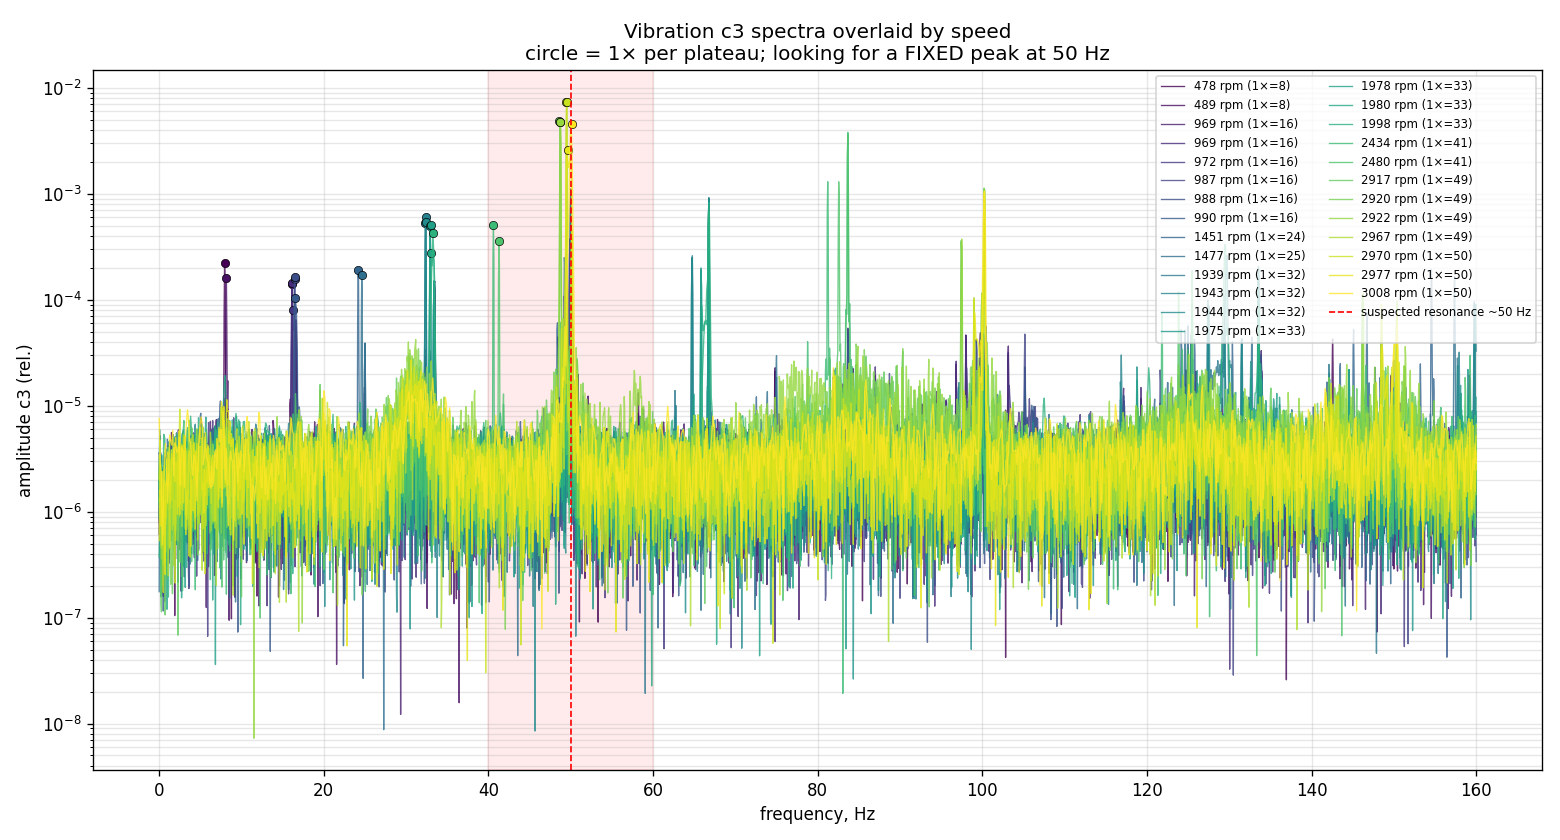
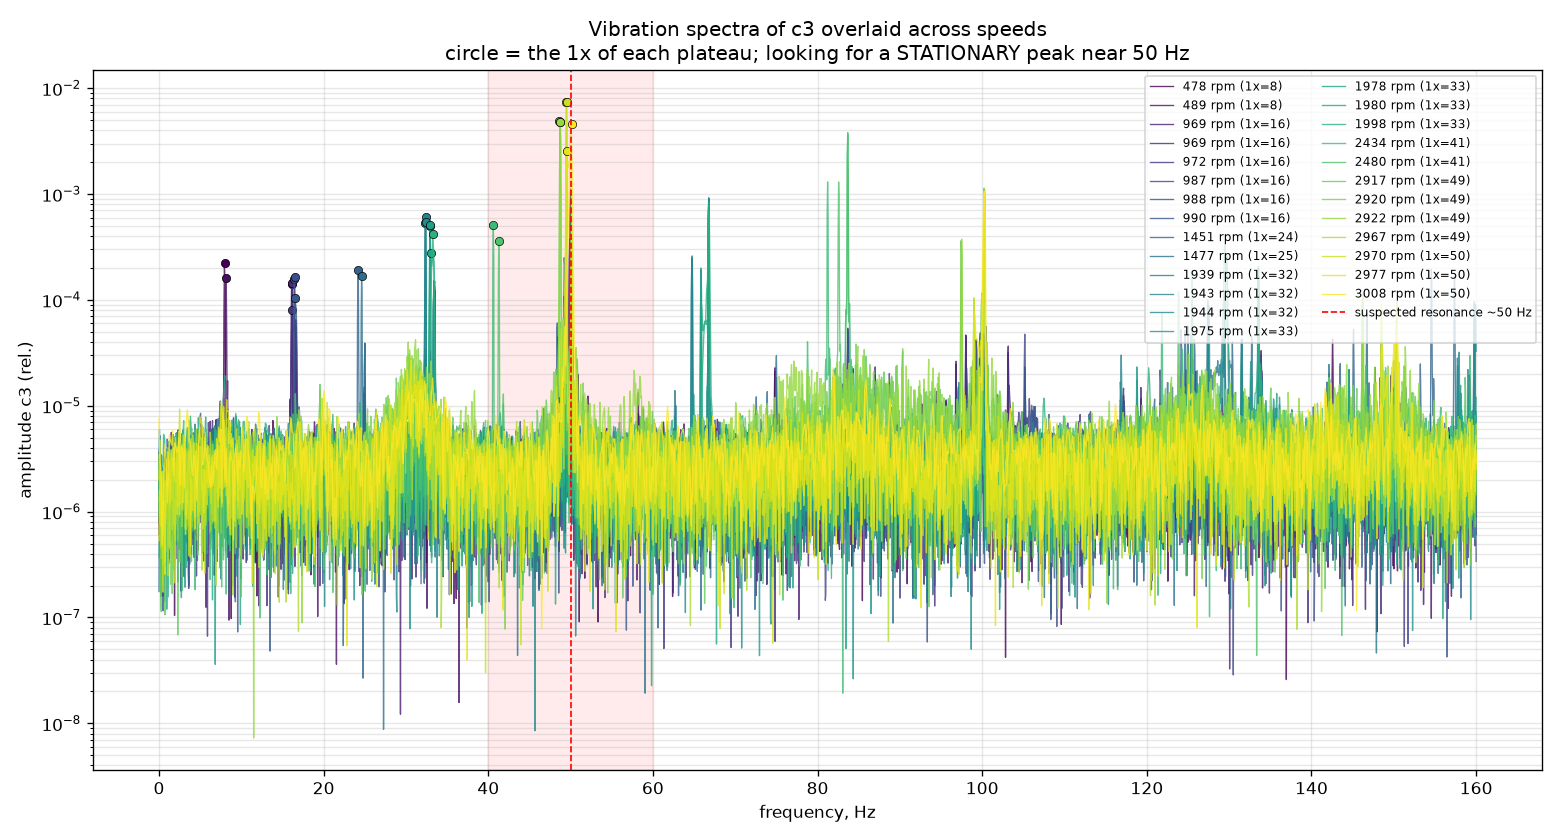
Translate resonance_check.py to English; re-render its two figures with English labels
The last Russian-language file in the repository. Docstring, comments, console
output and figure labels translated; logic unchanged. Re-run on the dataset:
fixed peak at 50.0 Hz (spread 0.7 Hz), 1x excess x9-14 at ~3000 rpm, as reported.

diff --git a/01_health/scripts/resonance_check.py b/01_health/scripts/resonance_check.py
@@ -1,24 +1,29 @@
 """
-resonance_check.py — проверка гипотезы РЕЗОНАНСА стенда около 50 Гц / 3000 об/мин.
+resonance_check.py — test of the RIG RESONANCE hypothesis near 50 Hz / 3000 rpm.
 
-Контекст: в health-базе 1× вибрации на оси c3 подскочил на 3000 об/мин заметно
-сильнее закона ω² (≈×30 на удвоение скорости вместо ×4). Две гипотезы:
-  H1 — механический резонанс конструкции у ~50 Гц (усиливает 1×, когда fr туда въезжает);
-  H2 — просто степенной рост 1× дисбаланса, без резонанса.
+Context: in the health baseline the vibration 1x on axis c3 jumps at 3000 rpm far
+more than the omega^2 law allows (~x30 for a doubling of speed instead of x4). Two
+hypotheses:
+  H1 — a mechanical resonance of the structure near ~50 Hz (amplifies 1x when fr
+       sweeps into it);
+  H2 — plain power-law growth of the imbalance 1x, no resonance.
 
-РЕШАЮЩИЙ ТЕСТ: резонанс сидит на ФИКСИРОВАННОЙ частоте независимо от оборотов,
-а 1× едет с частотой вращения. Промежуточные полки speed-протокола ставят 1× на
-24–41 Гц (в стороне от 50). Если на них в спектре c3 есть НЕПОДВИЖНЫЙ пик у ~50 Гц
-(отдельно от 1×), а на 3000 об/мин 1× в него въезжает и раздувается — это H1.
+DECISIVE TEST: a resonance sits at a FIXED frequency regardless of speed, while the 1x
+moves with the rotation frequency. The intermediate plateaus of the speed protocol put
+the 1x at 24–41 Hz (away from 50). If on those plateaus the c3 spectrum shows a
+STATIONARY peak near ~50 Hz (separate from the 1x), and at 3000 rpm the 1x drives into
+it and balloons — that is H1.
 
-Запуск из этой папки: python resonance_check.py
-  данные: ../data/**/health_*.csv;  модуль: ../../common/health_baseline.py;  выход: ../outputs/
+Run from this folder:  python resonance_check.py
+  data:    ../data/**/health_*.csv
+  module:  ../../common/health_baseline.py
+  output:  ../outputs/
 
-Выход:
-  resonance_c3_spectra_overlay.png  — наложение спектров c3 с разных скоростей
-  resonance_transmissibility.png    — 1× vs fr (log-log) + эталон ω², и 1x/fr²
-  консоль — вердикт: есть ли фиксированный пик у 50 Гц и во сколько раз 3000
-            превышает степенную экстраполяцию.
+Outputs:
+  resonance_c3_spectra_overlay.png  — c3 spectra from all speeds overlaid
+  resonance_transmissibility.png    — 1x vs fr (log-log) + omega^2 reference, and 1x/fr^2
+  console — the verdict: is there a fixed peak near 50 Hz, and by how much does the
+            3000 rpm point exceed the power-law extrapolation.
 """
 import os, sys, glob, re
 import numpy as np
@@ -28,7 +33,7 @@ matplotlib.use("Agg")
 import matplotlib.pyplot as plt
 
 SCRIPT_DIR = os.path.dirname(os.path.abspath(__file__))
-SECTION_DIR = os.path.dirname(SCRIPT_DIR)                 # e.g. 02_broken_bar/
+SECTION_DIR = os.path.dirname(SCRIPT_DIR)                 # 01_health/
 REPO_ROOT = os.path.dirname(SECTION_DIR)
 sys.path.insert(0, os.path.join(REPO_ROOT, "common"))     # the single shared module
 import health_baseline as hb
@@ -37,10 +42,10 @@ OUT_DIR = os.path.join(SECTION_DIR, "outputs")            # everything this scri
 os.makedirs(OUT_DIR, exist_ok=True)
 FS = hb.FS
 
-RES_BAND = (40.0, 60.0)     # где ищем фиксированный пик резонанса, Гц
-FIXED_TOL = 3.0             # разброс положения «фиксированного» пика между полками, Гц
+RES_BAND = (40.0, 60.0)     # where the fixed resonance peak is searched, Hz
+FIXED_TOL = 3.0             # allowed spread of the "fixed" peak position between plateaus, Hz
 
-# --- линейный спектр вибрации (Ханнинг, односторонний) ---
+# --- linear vibration spectrum (Hann window, one-sided) ---
 def vib_spectrum(sig):
     w = np.hanning(len(sig)); x = (sig - sig.mean()) * w
     sp = np.abs(np.fft.rfft(x)) * 2.0 / np.sum(w)
@@ -61,10 +66,10 @@ def peak_in_band(f, sp, lo, hi, exclude_fc=None, exclude_half=2.5):
     return f[k], sp[k]
 
 def collect_plateaus():
-    """Все полки всех health-файлов -> список (rpm, fr, срез сигнала X, каналы)."""
+    """All plateaus of all health files -> list of (rpm, fr, signal slice X, channels)."""
     files = hb.collect_health_files(DATA_DIR)
     if not files:
-        print("Health-файлы не найдены в", DATA_DIR); sys.exit(1)
+        print("No health files found under", DATA_DIR); sys.exit(1)
     out = []
     ref_vib = None
     for p in files:
@@ -80,7 +85,7 @@ def collect_plateaus():
     return out, ref_vib
 
 def pick_primary_radial(plats, vib_idx):
-    """Ось с наибольшим ростом 1× к высокой скорости = главная радиальная (c3)."""
+    """The axis whose 1x grows most towards high speed = the main radial axis (c3)."""
     hi = max(plats, key=lambda d: d["rpm"])
     amps = []
     for ci in vib_idx:
@@ -93,112 +98,112 @@ def main():
     plats, vib_idx = collect_plateaus()
     prim, prim_pos, amps_hi = pick_primary_radial(plats, vib_idx)
     labels = ["c2", "c3", "c4"]
-    print(f"Каналы вибрации (столбцы): {vib_idx} -> {labels}")
-    print(f"Главная радиальная ось (макс. 1× на высокой скорости): столбец {prim} = {labels[prim_pos]}")
-    print(f"  1× на верхней полке по осям: " +
+    print(f"Vibration channels (columns): {vib_idx} -> {labels}")
+    print(f"Main radial axis (max 1x at the highest speed): column {prim} = {labels[prim_pos]}")
+    print(f"  1x on the top plateau per axis: " +
           ", ".join(f"{labels[i]}={a:.5f}" for i, a in enumerate(amps_hi)))
 
     plats = sorted(plats, key=lambda d: d["rpm"])
 
-    # ---------- ТЕСТ 1: фиксированный пик у 50 Гц на нерезонансных полках ----------
-    print("\n=== Тест 1: неподвижный пик в полосе 40–60 Гц (вне зоны 1×) ===")
-    print(f"  {'rpm':>6} {'fr(1×),Гц':>10} {'пик≠1× в 40-60,Гц':>18} {'ампл':>10}")
+    # ---------- TEST 1: a fixed peak near 50 Hz on the non-resonant plateaus ----------
+    print("\n=== Test 1: stationary peak in the 40–60 Hz band (outside the 1x zone) ===")
+    print(f"  {'rpm':>6} {'fr(1x),Hz':>10} {'peak!=1x in 40-60,Hz':>21} {'ampl':>10}")
     fixed_hits = []
     for d in plats:
         f, sp = vib_spectrum(d["seg"][:, prim])
         fc, a = peak_in_band(f, sp, *RES_BAND, exclude_fc=d["fr"])
-        # интересны полки, где 1× НЕ в полосе резонанса (fr вне 40-60 ± tol)
+        # of interest: plateaus where the 1x is NOT inside the resonance band (fr outside 40-60 +/- tol)
         off = not (RES_BAND[0] - 3 <= d["fr"] <= RES_BAND[1] + 3)
         mark = ""
         if off and not np.isnan(fc):
-            fixed_hits.append(fc); mark = "  <- фиксированный?"
-        print(f"  {d['rpm']:6.0f} {d['fr']:10.1f} {fc:18.1f} {a:10.5f}{mark}")
+            fixed_hits.append(fc); mark = "  <- fixed?"
+        print(f"  {d['rpm']:6.0f} {d['fr']:10.1f} {fc:21.1f} {a:10.5f}{mark}")
     if len(fixed_hits) >= 2:
         med = np.median(fixed_hits); spread = np.ptp(fixed_hits)
         verdict1 = (spread <= FIXED_TOL)
-        print(f"  фиксированный пик: медиана {med:.1f} Гц, разброс {spread:.1f} Гц "
-              f"-> {'ПОДТВЕРЖДАЕТ резонанс' if verdict1 else 'положение плывёт (не фиксирован)'}")
+        print(f"  fixed peak: median {med:.1f} Hz, spread {spread:.1f} Hz "
+              f"-> {'CONFIRMS a resonance' if verdict1 else 'position drifts (not fixed)'}")
     else:
         verdict1 = None
-        print("  недостаточно нерезонансных полок для вывода")
+        print("  not enough non-resonant plateaus for a conclusion")
 
-    # ---------- ТЕСТ 2: 1× vs fr, отклонение от ω² ----------
-    print("\n=== Тест 2: усиление 1× относительно закона ω² ===")
+    # ---------- TEST 2: 1x vs fr, deviation from omega^2 ----------
+    print("\n=== Test 2: amplification of the 1x relative to the omega^2 law ===")
     fr = np.array([d["fr"] for d in plats])
     a1 = np.array([amp_at(*vib_spectrum(d["seg"][:, prim]), d["fr"]) for d in plats])
-    # опорный степенной закон по НИЖНИМ скоростям (fr < 40 Гц, до резонанса)
+    # reference power law fitted on the LOW speeds (fr < 40 Hz, below the resonance)
     lo = fr < 40
     if lo.sum() >= 3:
         cflog = np.polyfit(np.log(fr[lo]), np.log(a1[lo] + 1e-12), 1)
         slope = cflog[0]
         pred_hi = np.exp(np.polyval(cflog, np.log(fr)))
         amp_factor = a1 / (pred_hi + 1e-12)
-        print(f"  степенной наклон по нижним скоростям: {slope:.2f} (ω² дал бы 2.0)")
-        print(f"  {'rpm':>6} {'fr':>6} {'1×изм':>9} {'1×закон':>9} {'превышение×':>11}")
+        print(f"  power-law slope on the low speeds: {slope:.2f} (omega^2 would give 2.0)")
+        print(f"  {'rpm':>6} {'fr':>6} {'1x meas':>9} {'1x law':>9} {'excess x':>11}")
         for i in range(len(fr)):
             tag = "  <-" if amp_factor[i] > 2 else ""
             print(f"  {fr[i]*60:6.0f} {fr[i]:6.1f} {a1[i]:9.5f} {pred_hi[i]:9.5f} {amp_factor[i]:11.1f}{tag}")
         peak_factor = amp_factor.max(); peak_rpm = fr[np.argmax(amp_factor)] * 60
         verdict2 = peak_factor > 3
-        print(f"  макс. превышение закона: ×{peak_factor:.1f} на {peak_rpm:.0f} об/мин "
-              f"-> {'резонансное усиление' if verdict2 else 'в пределах степенного роста'}")
+        print(f"  max excess over the law: x{peak_factor:.1f} at {peak_rpm:.0f} rpm "
+              f"-> {'resonant amplification' if verdict2 else 'within power-law growth'}")
     else:
         verdict2 = None; amp_factor = None
-        print("  мало точек ниже 40 Гц для опорного закона")
+        print("  too few points below 40 Hz for a reference law")
 
-    # ---------- Графики ----------
-    # (1) наложение спектров c3
+    # ---------- Figures ----------
+    # (1) c3 spectra overlay
     fig, ax = plt.subplots(figsize=(13, 7))
     cmap = plt.cm.viridis(np.linspace(0, 1, len(plats)))
     for d, c in zip(plats, cmap):
         f, sp = vib_spectrum(d["seg"][:, prim])
         m = f <= 160
         ax.semilogy(f[m], sp[m] + 1e-9, lw=0.8, color=c, alpha=0.8,
-                    label=f"{d['rpm']:.0f} об/мин (1×={d['fr']:.0f})")
+                    label=f"{d['rpm']:.0f} rpm (1x={d['fr']:.0f})")
         ax.plot(d["fr"], amp_at(f, sp, d["fr"]) + 1e-9, "o", color=c, ms=5, mec="k", mew=0.4)
     ax.axvspan(RES_BAND[0], RES_BAND[1], color="red", alpha=0.08)
-    ax.axvline(50, color="red", ls="--", lw=1, label="подозрение на резонанс ~50 Гц")
-    ax.set(xlabel="частота, Гц", ylabel=f"амплитуда {labels[prim_pos]} (отн.)",
-           title="Наложение спектров вибрации c3 по скоростям\n"
-                 "кружок = 1× каждой полки; ищем НЕПОДВИЖНЫЙ пик у 50 Гц")
+    ax.axvline(50, color="red", ls="--", lw=1, label="suspected resonance ~50 Hz")
+    ax.set(xlabel="frequency, Hz", ylabel=f"amplitude {labels[prim_pos]} (rel.)",
+           title="Vibration spectra of c3 overlaid across speeds\n"
+                 "circle = the 1x of each plateau; looking for a STATIONARY peak near 50 Hz")
     ax.legend(fontsize=7, ncol=2); ax.grid(True, which="both", alpha=0.3)
     plt.tight_layout(); p1 = os.path.join(OUT_DIR, "resonance_c3_spectra_overlay.png")
-    plt.savefig(p1, dpi=120); print("\nГрафик:", p1)
+    plt.savefig(p1, dpi=120); print("\nFigure:", p1)
 
-    # (2) транссмиссивность
+    # (2) transmissibility
     fig, ax = plt.subplots(1, 2, figsize=(14, 5.5))
-    ax[0].loglog(fr, a1 + 1e-12, "o", ms=6, mec="k", mew=0.4, label="1× изм.")
+    ax[0].loglog(fr, a1 + 1e-12, "o", ms=6, mec="k", mew=0.4, label="1x measured")
     if lo.sum() >= 3:
         order = np.argsort(fr)
-        ax[0].loglog(fr[order], pred_hi[order], "r--", lw=1, label=f"степень×{slope:.1f}")
-        ax[0].loglog(fr[order], (a1[lo][0]*(fr/fr[lo][0])**2)[order], "g:", lw=1, label="эталон ω²")
-    ax[0].set(xlabel="fr, Гц", ylabel="1× амплитуда", title="1× vs частота вращения (log-log)")
+        ax[0].loglog(fr[order], pred_hi[order], "r--", lw=1, label=f"power law x{slope:.1f}")
+        ax[0].loglog(fr[order], (a1[lo][0]*(fr/fr[lo][0])**2)[order], "g:", lw=1, label="omega^2 reference")
+    ax[0].set(xlabel="fr, Hz", ylabel="1x amplitude", title="1x vs rotation frequency (log-log)")
     ax[0].legend(fontsize=8); ax[0].grid(True, which="both", alpha=0.3)
-    comp = a1 / (fr ** 2 + 1e-12)      # податливость ~ пик у резонанса
+    comp = a1 / (fr ** 2 + 1e-12)      # compliance ~ peaks at the resonance
     ax[1].plot(fr, comp / np.nanmedian(comp), "o-", ms=5)
     ax[1].axvline(50, color="red", ls="--", lw=1)
-    ax[1].set(xlabel="fr, Гц", ylabel="1×/fr² (норм.)",
-              title="Механическая податливость 1×/fr² (пик = резонанс)")
+    ax[1].set(xlabel="fr, Hz", ylabel="1x/fr^2 (normalised)",
+              title="Mechanical compliance 1x/fr^2 (peak = resonance)")
     ax[1].grid(True, alpha=0.3)
     plt.tight_layout(); p2 = os.path.join(OUT_DIR, "resonance_transmissibility.png")
-    plt.savefig(p2, dpi=120); print("График:", p2)
+    plt.savefig(p2, dpi=120); print("Figure:", p2)
 
-    # ---------- Вердикт ----------
+    # ---------- Verdict ----------
     print("\n" + "=" * 60)
-    print("ВЕРДИКТ:")
+    print("VERDICT:")
     v = []
-    if verdict1 is True: v.append("фиксированный пик у ~50 Гц ЕСТЬ")
-    elif verdict1 is False: v.append("фиксированного пика НЕТ")
-    if verdict2 is True: v.append("1× превышает ω² в разы у 3000")
-    elif verdict2 is False: v.append("рост 1× в пределах степенного")
-    print("  " + "; ".join(v) if v else "  недостаточно данных")
+    if verdict1 is True: v.append("a fixed peak near ~50 Hz IS present")
+    elif verdict1 is False: v.append("NO fixed peak")
+    if verdict2 is True: v.append("the 1x exceeds omega^2 several-fold near 3000")
+    elif verdict2 is False: v.append("1x growth stays within the power law")
+    print("  " + "; ".join(v) if v else "  not enough data")
     if verdict1 and verdict2:
-        print("  => РЕЗОНАНС стенда у ~50 Гц ПОДТВЕРЖДЁН. На 3000 об/мин строить")
-        print("     закон 'подъём 1× от скорости' нельзя — точка резонансно раздута.")
+        print("  => RIG RESONANCE near ~50 Hz CONFIRMED. The 3000 rpm point cannot be used")
+        print("     for a '1x rise vs speed' law — it is resonantly inflated.")
     elif verdict1 is False and verdict2 is False:
-        print("  => Резонанс НЕ подтверждён; всплеск на 3000 нуждается в другом объяснении.")
+        print("  => Resonance NOT confirmed; the jump at 3000 needs another explanation.")
     else:
-        print("  => Картина смешанная, см. графики (возможно резонанс на краю диапазона).")
+        print("  => Mixed picture, see the figures (possibly a resonance at the edge of the range).")
 
 if __name__ == "__main__":
     main()
